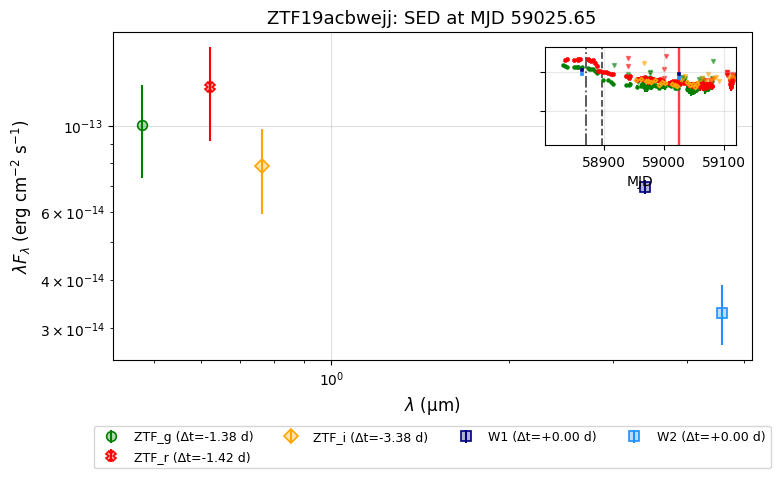
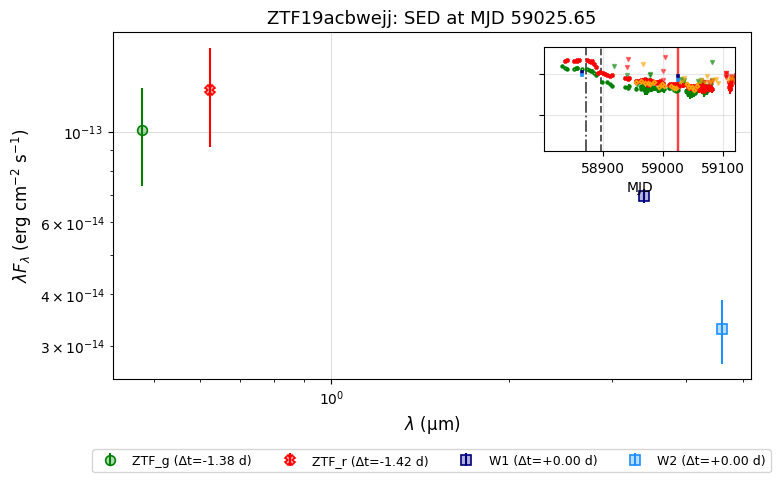
update sed logic

diff --git a/src/lltypeiip/sed/build.py b/src/lltypeiip/sed/build.py
@@ -110,13 +110,95 @@ def _sed_has_required_detections(sed, require_wise_detetection=True,
         return any_detection and any_ztf_det and any_wise_det and (n_det_bands >= min_detected_bands)
     else:
         return any_detection and any_ztf_det and (n_det_bands >= min_detected_bands)
+
+def _wise_anchored_epochs(wise_resdict, t_tail, snr_min_wise=SNR_MIN_WISE, merge_dt=1.0, first_wise_only=False):
+    """
+    Build candidate SED spochs anchored on WISE detection times.
+
+    For each WISE epoch, mjd0 is the median of W1/W@ detection times that fall
+    within merge_dt of each other. If first_wise_only is True, only use the earliest 
+    WISE detection time as the candidate epoch. Only consider WISE detections that occur
+    after t_tail.
+
+    """
+
+    w1_t = _det_times(wise_resdict.get("b1_times", []), wise_resdict.get("b1_fluxes", []),
+                      wise_resdict.get("b1_fluxerrs", []), snr_min_wise)
+    w2_t = _det_times(wise_resdict.get("b2_times", []), wise_resdict.get("b2_fluxes", []),
+                      wise_resdict.get("b2_fluxerrs", []), snr_min_wise)
     
+    w1_t = w1_t[w1_t > t_tail]
+    w2_t = w2_t[w2_t > t_tail]
+
+    all_wise = np.unique(np.concatenate([w1_t, w2_t])) if (w1_t.size or w2_t.size) else np.array([])
+
+    if all_wise.size == 0:
+        return np.array([])
+
+    epochs = _merge_epochs(all_wise, merge_dt=merge_dt)
+
+    if first_wise_only and len(epochs) > 0:
+        return np.array([epochs[0]])
+    
+    return epochs
+
+def _trim_ztf_detections(sed, max_n_det=4, trim_min_dt=3.0):
+    """
+    If SED has more than max_n_det *detections*, drop ZTF detections one at a time in
+    descending order of |Δt|, if |Δt| > trim_min_dt. 
+    """
+    bands = np.array(sed["bands"])
+    is_ul = np.array(sed["is_ul"])
+    dt_labels = np.array(sed["dt_labels"])
+
+    # count current detections
+    n_det = sum(1 for ul in is_ul if not ul)
+    if n_det <= max_n_det:
+        return sed  # no trimming can be performed
+
+    ztf_det_indices = []
+    for i, (band, ul, dt_label) in enumerate(zip(bands, is_ul, dt_labels)):
+        if band.startswith("ZTF") and not ul:
+            try:
+                dt_val = abs(float(dt_label.split("=")[1].split(" ")[0]))
+            except (IndexError, ValueError):
+                dt_val = 0.0
+            ztf_det_indices.append((i, dt_val))
+    
+    # only candidates |Δt| > trim_min_dt can be trimmed
+    can_trim = [(i, dt) for i, dt in ztf_det_indices if dt > trim_min_dt]
+
+    if not can_trim:
+        return sed  # no candidates for trimming
+    
+    can_trim.sort(key=lambda x: x[1], reverse=True)  # sort by descending |Δt|
+
+    n_to_drop = n_det - max_n_det
+    n_ztf_det = len(ztf_det_indices)
+    n_to_drop = min(n_to_drop, len(can_trim), n_ztf_det - 1) 
+
+    drop_indices = set(idx for idx, _ in can_trim[:n_to_drop])
+    if not drop_indices:
+        return sed  # no indices to drop
+
+    print(f"  Trimming {len(drop_indices)} ZTF detection(s) with |Δt| > {trim_min_dt} d: "
+          f"{[dt_labels[i] for i in sorted(drop_indices)]}")
+    
+    keep = [i for i in range(len(bands)) if i not in drop_indices]
+    
+    for key in ("bands", "nu", "lam", "Fnu", "eFnu", "is_ul", "dt_labels"):
+        sed[key] = [sed[key][i] for i in keep]
+
+    return sed
+
+
 # --- Build SEDs after tail-onset using tail start from CSV -----
 def build_multi_epoch_seds_from_tail(ztf_resdict, wise_resdict, max_dt_ztf=4.0, 
                                      max_dt_wise=1.0, include_limits=True, snr_min=SNR_MIN,
                                      snr_min_wise=SNR_MIN_WISE, csv_path=config.paths.params,
-                                     tail_offset_days=0.0, merge_dt=4.0, require_wise_detection=False,
-                                     min_detected_bands=2, include_plateau_epoch=True):
+                                     tail_offset_days=0.0, merge_dt=1.0, require_wise_detection=False,
+                                     min_detected_bands=2, include_plateau_epoch=True,
+                                     first_wise_only=False, trim_to_n_det=None, trim_min_dt=3.0):
     """
     Build SEDs for any epochs **after plateau end** that have >= `min_detected_bands`
     detections (regardless of whether they are ZTF or WISE).
@@ -149,6 +231,12 @@ def build_multi_epoch_seds_from_tail(ztf_resdict, wise_resdict, max_dt_ztf=4.0,
         Minimum number of bands with detections. Default 2.
     include_plateau_epoch : bool, optional
         If True, include an SED at plateau end time. Default True.
+    first_wise_only : bool, optional
+        If True, only build SEDs anchored on the first WISE detection time. Default False.
+    trim_to_n_det : int, optional
+        If set, trim SEDs to have at most this number of ZTF detections.
+    trim_min_dt : float, optional
+        Minimum time separation (days) for trimming ZTF detections. Default 3.0.
 
     Returns
     -------
@@ -167,78 +255,142 @@ def build_multi_epoch_seds_from_tail(ztf_resdict, wise_resdict, max_dt_ztf=4.0,
         return []
     t_tail = float(m_dict[oid]) + float(tail_offset_days) # shift tail start time/plateau end time
 
-    # ---- candidate epochs from ZTF -----
-    if include_plateau_epoch:
-        # include plateau end epoch as well
-        all_epochs = np.array([t_tail])
-    
-    ztf_det_times = []
-
-    for band in ["ZTF_g","ZTF_r","ZTF_i"]:
-        if band in ztf_forced:
-            d = ztf_forced[band]
-            t_band = _det_times(d["mjd"], d["flux_mJy"], d["flux_err_mJy"], snr_min)
-            ztf_det_times.append(t_band[t_band > t_tail])
-
-    ztf_det_times = [np.asarray(a, float) for a in ztf_det_times if a is not None and len(a) > 0]
-    ztf_det_times = np.unique(np.concatenate(ztf_det_times)) if ztf_det_times else np.array([])
-
-    all_epochs = _merge_epochs(ztf_det_times, merge_dt=merge_dt)
-
     # ---- candidate epochs from WISE ----
-
-    ######## USE WISE DET TO ANCHOR MJD0 SELECTION ########
-
-    wise_det_times = []
-
+    
     w = subtract_wise_parity_baseline(
         wise_resdict, clip_negatives=False, dt=200.0,
         rescale_uncertainties=True, sigma_clip=3.0
     )
 
+    all_epochs = _wise_anchored_epochs(wise_resdict, t_tail, snr_min_wise=snr_min_wise,
+                                            merge_dt=merge_dt, first_wise_only=first_wise_only)
+    
+    if all_epochs.size == 0:
+        print(f". No WISE detections found after tail start (MJD={t_tail:.1f}) for {oid}")
+        return []
+    
+    print(f"  WISE-anchored candidate epochs for {oid}: {all_epochs}")
 
-    w1_t = _det_times(w.get("b1_times", []), w.get("b1_fluxes", []), w.get("b1_fluxerrs", []), snr_min_wise)
-    w2_t = _det_times(w.get("b2_times", []), w.get("b2_fluxes", []), w.get("b2_fluxerrs", []), snr_min_wise)
-
-    if require_wise_detection:
-        all_epochs = np.array([])  # reset to only WISE times
-
-    if w1_t.size:
-        wise_det_times.append(w1_t[w1_t > t_tail])
-    if w2_t.size:
-        wise_det_times.append(w2_t[w2_t > t_tail])
-
-
-    wise_det_times = np.unique(np.concatenate(wise_det_times) if wise_det_times else np.array([]))
-    combined_det_times = np.unique(np.concatenate([all_epochs, wise_det_times])) if all_epochs.size and wise_det_times.size else all_epochs if all_epochs.size else wise_det_times
-    all_epochs = _merge_epochs(combined_det_times, merge_dt=merge_dt)
-
-    # estimate explosion time from forced photometry
+    # --- explosion time estimate ---
     t_exp_info = estimate_texp_mjd_from_forced(ztf_forced)
     t_exp_mjd = t_exp_info['t_exp_mjd'] if t_exp_info else None
     t_exp_sig = t_exp_info['sigma_mjd'] if t_exp_info else None
     t_exp_band = t_exp_info['band'] if t_exp_info else None
 
-    # ---- build SEDs -----
+    # --- build SEDs ---
     seds = []
     for mjd0 in all_epochs:
         sed = build_sed(mjd0, ztf_resdict, wise_resdict,
                         max_dt_ztf=max_dt_ztf, max_dt_wise=max_dt_wise,
                         include_limits=include_limits, snr_min=snr_min,
                         snr_min_wise=snr_min_wise)
-        
+        sed["wise_anchor_mjd"] = float(mjd0)
         sed["t_exp_mjd"] = t_exp_mjd
         sed["t_exp_sig"] = t_exp_sig
         sed["t_exp_band"] = t_exp_band
         sed["phase_days"] = (mjd0 - t_exp_mjd) if t_exp_mjd is not None else np.nan
 
-        if sed["bands"] and _sed_has_required_detections(sed, 
-                                                         require_wise_detetection=require_wise_detection, 
-                                                         min_detected_bands=min_detected_bands):
+        # --- optional trimming of ZTF detections ---
+        if trim_to_n_det is not None:
+            sed = _trim_ztf_detections(sed, max_n_det=trim_to_n_det, trim_min_dt=trim_min_dt)
+
+        # --- quality flags ---
+        ztf_dts = []
+        for band, ul, label in zip(sed["bands"], sed["is_ul"], sed["dt_labels"]):
+            if band.startswith("ZTF") and not ul:
+                try:
+                    dt_val = float(label.split("=")[1].split(" ")[0])
+                    ztf_dts.append(dt_val)
+                except (IndexError, ValueError):
+                    pass
+        sed["max_dt_ztf_actual"] = float(np.max(np.abs(ztf_dts))) if ztf_dts else np.nan
+
+        if sed["bands"] and _sed_has_required_detections(sed,
+                                require_wise_detetection=require_wise_detection,
+                                min_detected_bands=min_detected_bands):
             seds.append(sed)
-            
+            print(f"  Accepted SED at MJD={mjd0:.2f} | bands={sed['bands']} "
+                  f"| max_dt_ztf_actual={sed['max_dt_ztf_actual']:.2f} d")
 
     return seds
+
+    # # ---- candidate epochs from ZTF -----
+    # if include_plateau_epoch:
+    #     # include plateau end epoch as well
+    #     all_epochs = np.array([t_tail])
+    
+    # ztf_det_times = []
+
+    # for band in ["ZTF_g","ZTF_r","ZTF_i"]:
+    #     if band in ztf_forced:
+    #         d = ztf_forced[band]
+    #         t_band = _det_times(d["mjd"], d["flux_mJy"], d["flux_err_mJy"], snr_min)
+    #         ztf_det_times.append(t_band[t_band > t_tail])
+
+    # ztf_det_times = [np.asarray(a, float) for a in ztf_det_times if a is not None and len(a) > 0]
+    # ztf_det_times = np.unique(np.concatenate(ztf_det_times)) if ztf_det_times else np.array([])
+
+    # all_epochs = _merge_epochs(ztf_det_times, merge_dt=merge_dt)
+
+    # # ---- candidate epochs from WISE ----
+
+    # ######## USE WISE DET TO ANCHOR MJD0 SELECTION ########
+
+    # wise_det_times = []
+
+    # w = subtract_wise_parity_baseline(
+    #     wise_resdict, clip_negatives=False, dt=200.0,
+    #     rescale_uncertainties=True, sigma_clip=3.0
+    # )
+
+
+    # w1_t = _det_times(w.get("b1_times", []), w.get("b1_fluxes", []), w.get("b1_fluxerrs", []), snr_min_wise)
+    # w2_t = _det_times(w.get("b2_times", []), w.get("b2_fluxes", []), w.get("b2_fluxerrs", []), snr_min_wise)
+
+    # if require_wise_detection:
+    #     all_epochs = np.array([])  # reset to only WISE times
+
+    # if w1_t.size:
+    #     wise_det_times.append(w1_t[w1_t > t_tail])
+    #     print("WISE W1 det times:", w1_t[w1_t > t_tail])
+    # if w2_t.size:
+    #     wise_det_times.append(w2_t[w2_t > t_tail])
+    #     print("WISE W2 det times:", w2_t[w2_t > t_tail])
+
+
+    # wise_det_times = np.unique(np.concatenate(wise_det_times) if wise_det_times else np.array([]))
+    # print("wise det times:", wise_det_times)
+    # combined_det_times = np.unique(np.concatenate([all_epochs, wise_det_times])) if all_epochs.size and wise_det_times.size else all_epochs if all_epochs.size else wise_det_times
+    # print(combined_det_times)
+    # all_epochs = _merge_epochs(combined_det_times, merge_dt=merge_dt)
+
+    # # estimate explosion time from forced photometry
+    # t_exp_info = estimate_texp_mjd_from_forced(ztf_forced)
+    # t_exp_mjd = t_exp_info['t_exp_mjd'] if t_exp_info else None
+    # t_exp_sig = t_exp_info['sigma_mjd'] if t_exp_info else None
+    # t_exp_band = t_exp_info['band'] if t_exp_info else None
+
+    # # ---- build SEDs -----
+    # seds = []
+    # print("all epochs:", all_epochs)
+    # for mjd0 in all_epochs:
+    #     sed = build_sed(mjd0, ztf_resdict, wise_resdict,
+    #                     max_dt_ztf=max_dt_ztf, max_dt_wise=max_dt_wise,
+    #                     include_limits=include_limits, snr_min=snr_min,
+    #                     snr_min_wise=snr_min_wise)
+        
+    #     sed["t_exp_mjd"] = t_exp_mjd
+    #     sed["t_exp_sig"] = t_exp_sig
+    #     sed["t_exp_band"] = t_exp_band
+    #     sed["phase_days"] = (mjd0 - t_exp_mjd) if t_exp_mjd is not None else np.nan
+
+    #     if sed["bands"] and _sed_has_required_detections(sed, 
+    #                                                      require_wise_detetection=require_wise_detection, 
+    #                                                      min_detected_bands=min_detected_bands):
+    #         seds.append(sed)
+            
+
+    # return seds
 
 # --- Build SEDs after ZTF peak -----
 def build_multi_epoch_seds(ztf_resdict, wise_resdict, max_dt_ztf=5.0, max_dt_wise=5.0,

diff --git a/src/lltypeiip/sed/plotting.py b/src/lltypeiip/sed/plotting.py
@@ -93,13 +93,11 @@ def plot_sed(sed, ax=None, y_mode ="Fnu", logy=False, logx=False,
     for line in ax.lines:
         mfc = line.get_markerfacecolor()
         mec = line.get_markeredgecolor()
-
+        if mfc is None or mfc == "none":
+            continue
         if line.get_marker() == "v":
             line.set_markerfacecolor(mcolors.to_rgba(mfc)[:3] + (0.4,))
             line.set_markeredgecolor(mcolors.to_rgba(mfc)[:3] + (0.4,))  # match edge to face
-            continue
-
-        if mfc is None or mfc == "none":
             continue
         if isinstance(mfc, (tuple, list)) and len(mfc) == 4:
             r, g, b, _ = mfc
